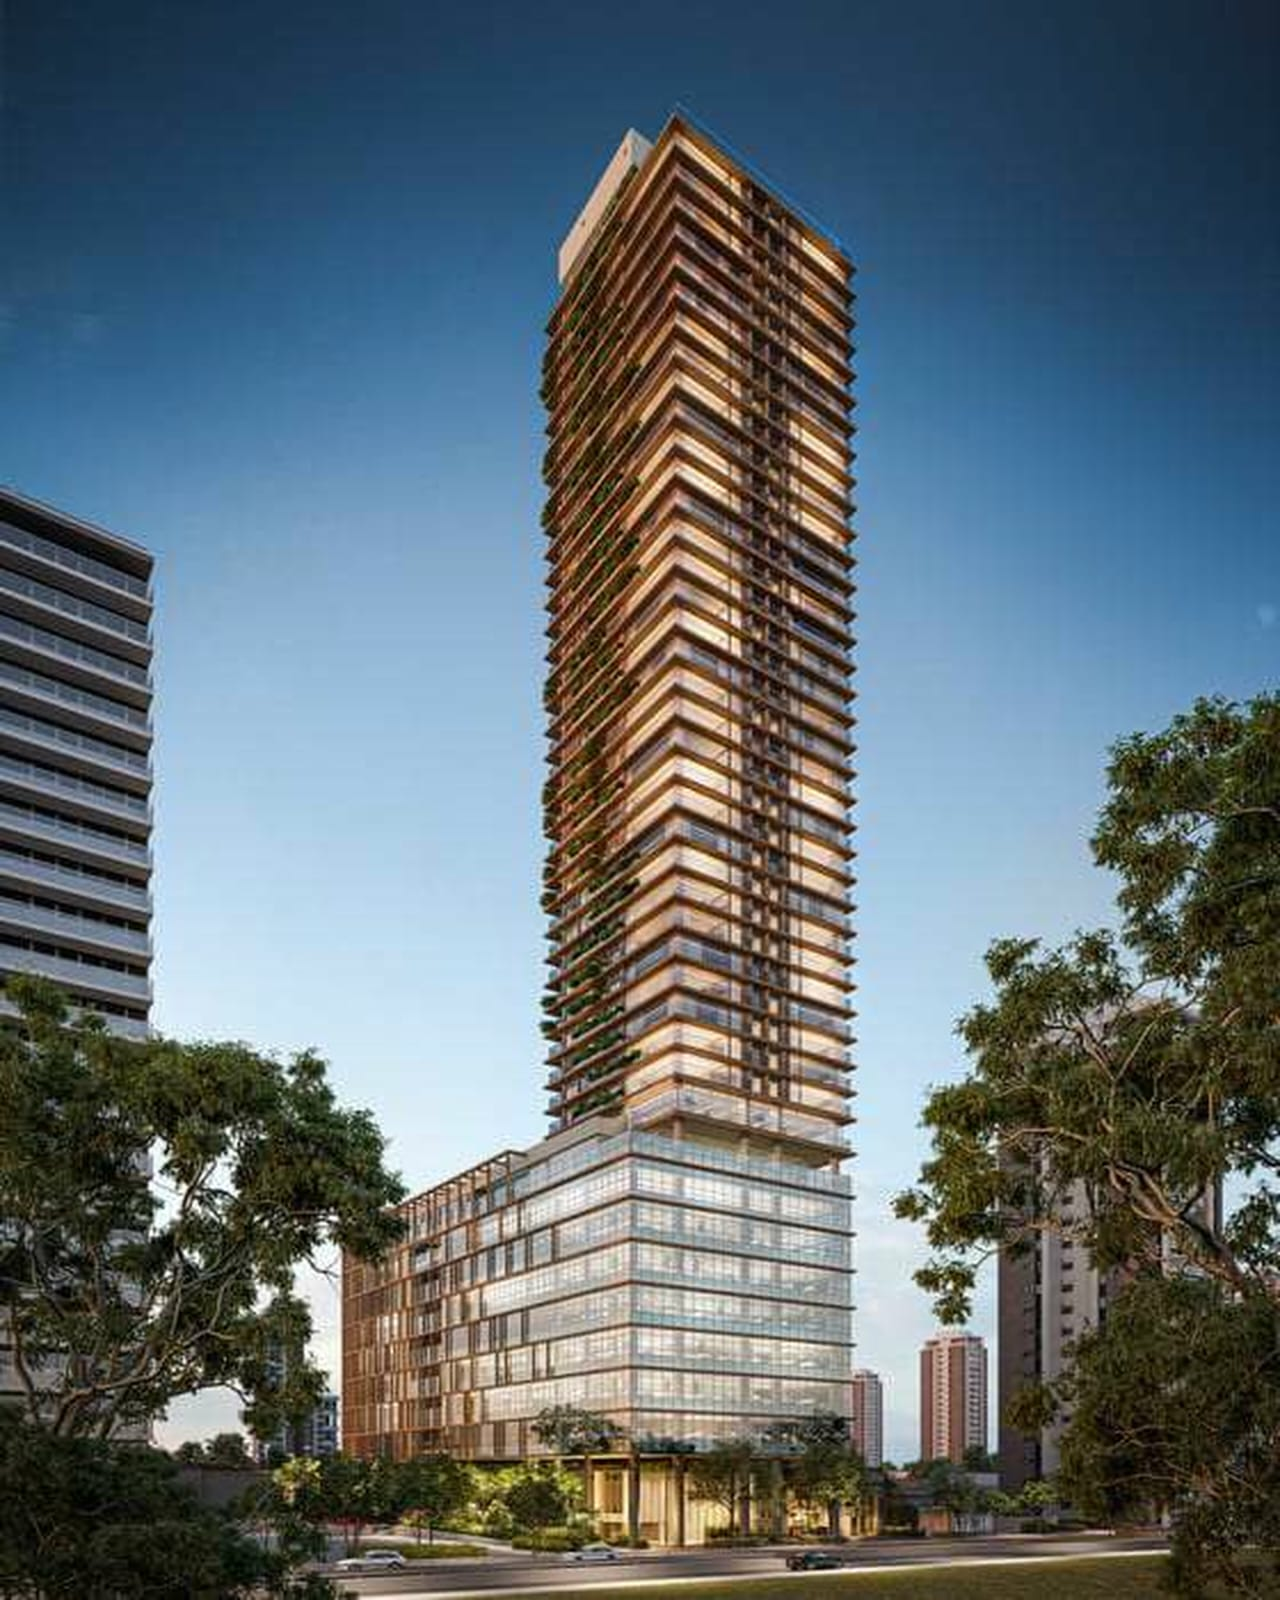
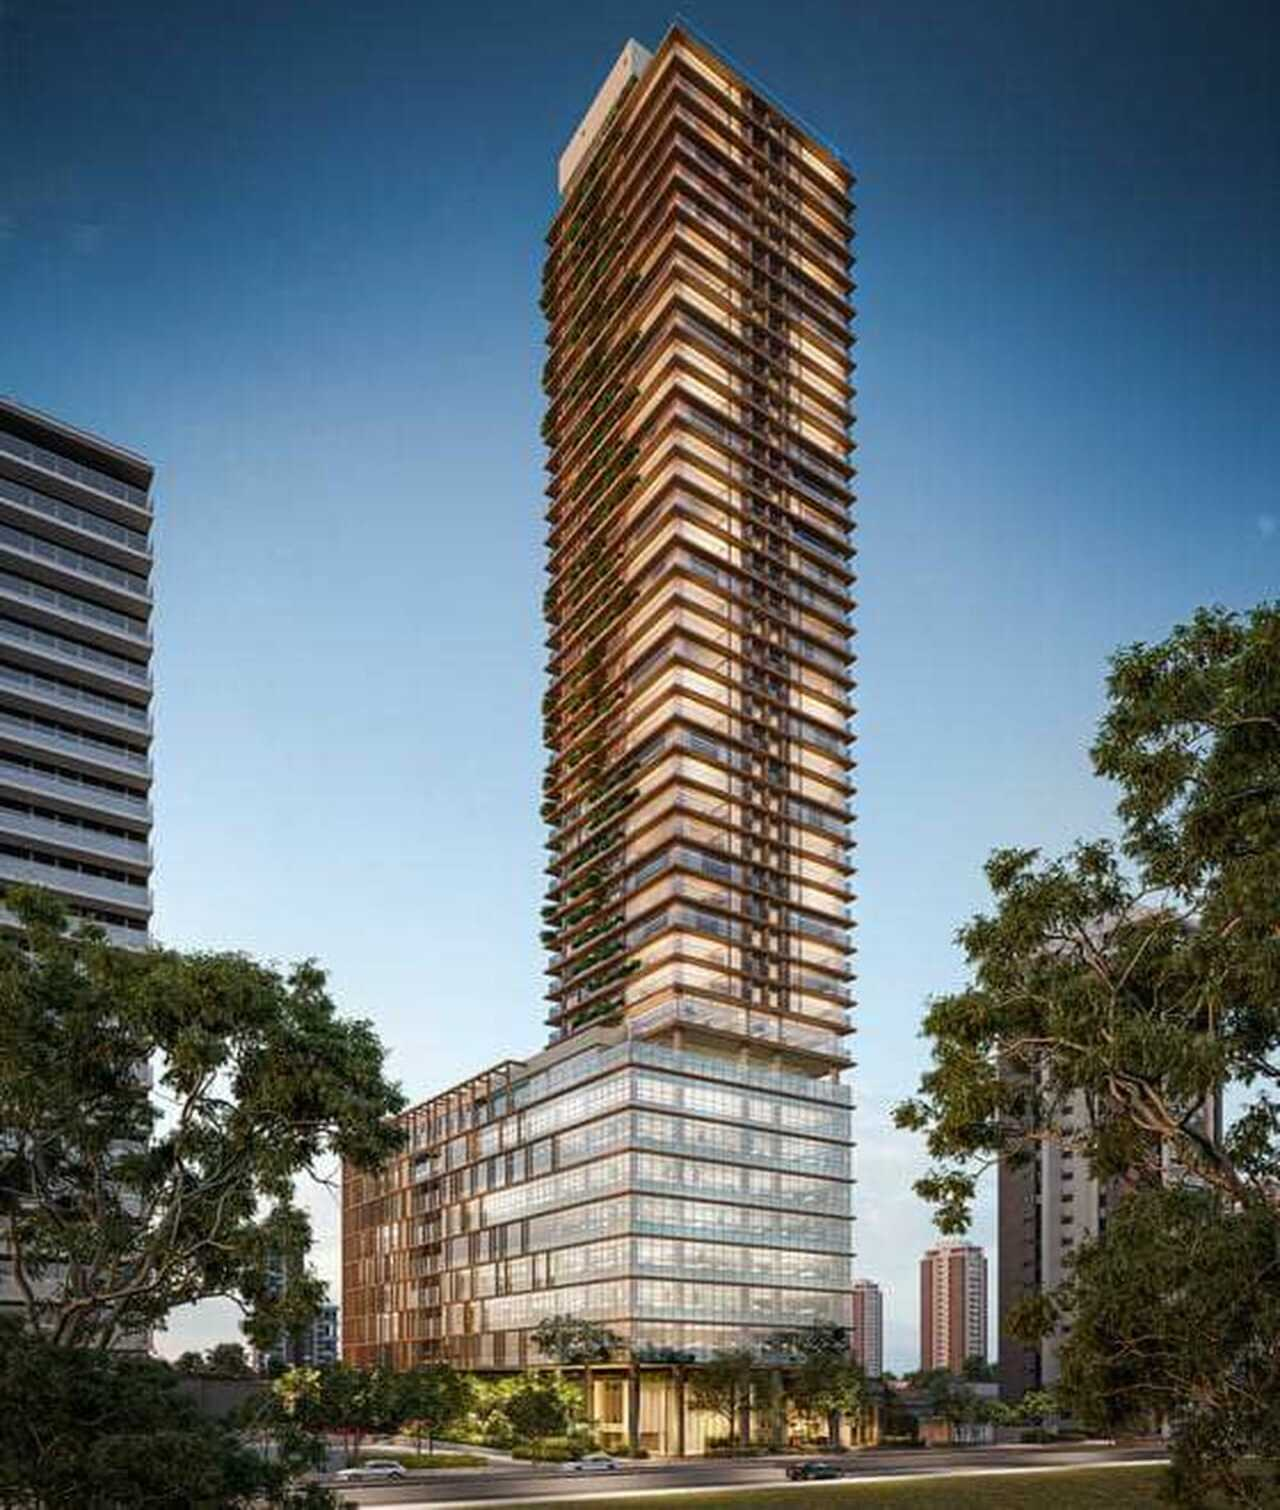
página mcmv

diff --git a/frontend/templates/imoveis/pagina_mcmv.html b/frontend/templates/imoveis/pagina_mcmv.html
@@ -1,0 +1,141 @@
+{% extends "base.html" %}
+{% load static humanize %}
+
+{% block title %}Minha Casa Minha Vida | Imobidom{% endblock %}
+
+{% block content %}
+<section class="py-5 bg-dark text-white" style="background: linear-gradient(rgba(0,0,0,0.6), rgba(0,0,0,0.6)), url('{% static 'images/bg-mcmv.jpg' %}') center/cover;">
+    <div class="container text-center py-4">
+        <h1 class="display-4 fw-bold">Seu Sonho da Casa Própria Começa Aqui</h1>
+        <p class="lead mb-4">Descubra em qual categoria sua renda se encaixa e veja as oportunidades exclusivas.</p>
+        
+        <div class="row justify-content-center g-2 mt-4">
+            <div class="col-auto">
+                <a href="?categoria=HIS1#imoveis-mcmv" class="btn {% if categoria_ativa == 'HIS1' %}btn-success{% else %}btn-outline-light{% endif %} rounded-pill px-4">Até R$ 4,8k (HIS 1)</a>
+            </div>
+            <div class="col-auto">
+                <a href="?categoria=HIS2#imoveis-mcmv" class="btn {% if categoria_ativa == 'HIS2' %}btn-success{% else %}btn-outline-light{% endif %} rounded-pill px-4">Até R$ 9,7k (HIS 2)</a>
+            </div>
+            <div class="col-auto">
+                <a href="?categoria=HMP#imoveis-mcmv" class="btn {% if categoria_ativa == 'HMP' %}btn-success{% else %}btn-outline-light{% endif %} rounded-pill px-4">Até R$ 16,2k (HMP)</a>
+            </div>
+            <div class="col-auto">
+                <a href="?" class="btn btn-primary rounded-pill px-4">Ver Todos</a>
+            </div>
+        </div>
+    </div>
+</section>
+
+<section class="py-5 bg-light">
+    <div class="container">
+        <div class="row g-4 mb-5">
+            <div class="col-md-4">
+                <div class="card h-100 border-0 shadow-sm">
+                    <div class="card-body text-center p-4">
+                        <div class="text-primary mb-3"><i class="fas fa-wallet fa-3x"></i></div>
+                        <h5 class="fw-bold">1. Qual sua renda?</h5>
+                        <p class="small text-muted">O governo subsidia parte do valor para famílias com renda até R$ 9.726,00. É o empurrão que faltava!</p>
+                        <hr>
+                        <div class="text-start small">
+                            <div class="d-flex justify-content-between mb-1"><span>HIS 1:</span> <strong>Até R$ 4.863</strong></div>
+                            <div class="d-flex justify-content-between"><span>HIS 2:</span> <strong>Até R$ 9.726</strong></div>
+                        </div>
+                    </div>
+                </div>
+            </div>
+
+            <div class="col-md-4">
+                <div class="card h-100 border-0 shadow-sm border-bottom border-primary border-4">
+                    <div class="card-body text-center p-4">
+                        <div class="text-warning mb-3"><i class="fas fa-home fa-3x"></i></div>
+                        <h5 class="fw-bold">2. O que você pode comprar?</h5>
+                        <p class="small text-muted">Existem tetos de preço para garantir que o imóvel seja realmente acessível e com juros baixos.</p>
+                        <hr>
+                        <div class="text-start small">
+                            <div class="d-flex justify-content-between mb-1"><span>MCMV:</span> <strong>Até R$ 350 mil</strong></div>
+                            <div class="d-flex justify-content-between"><span>HMP:</span> <strong>Até R$ 537 mil</strong></div>
+                        </div>
+                    </div>
+                </div>
+            </div>
+
+            <div class="col-md-4">
+                <div class="card h-100 border-0 shadow-sm">
+                    <div class="card-body text-center p-4">
+                        <div class="text-success mb-3"><i class="fas fa-shield-alt fa-3x"></i></div>
+                        <h5 class="fw-bold">3. Sua Segurança</h5>
+                        <p class="small text-muted">Esses imóveis são para moradia própria. Isso garante um condomínio mais tranquilo e familiar para sua família.</p>
+                        <div class="badge bg-light text-dark border p-2 mt-2 w-100">Juros reduzidos e uso do FGTS</div>
+                    </div>
+                </div>
+            </div>
+        </div>
+
+        <div id="imoveis-mcmv" class="pt-4">
+            <div class="d-flex justify-content-between align-items-end mb-4">
+                <div>
+                    <h2 class="fw-bold">Oportunidades Selecionadas</h2>
+                    <p class="text-muted">Mostrando {{ imoveis.count }} imóveis para o seu perfil.</p>
+                </div>
+                {% if categoria_ativa %}
+                    <a href="?" class="btn btn-sm btn-outline-secondary mb-3">Limpar Filtro</a>
+                {% endif %}
+            </div>
+
+            <div class="row g-4">
+                {% for imovel in imoveis %}
+                <div class="col-12 col-md-6 col-lg-4">
+                    <article class="card h-100 shadow-sm border-0 position-relative overflow-hidden">
+                        <div class="position-absolute top-0 end-0 m-3 z-2">
+                            <span class="badge bg-success px-3 py-2 shadow">Enquadrado {{ imovel.categoria_enquadramento }}</span>
+                        </div>
+
+                        <div class="ratio ratio-16x9">
+                            {% with imovel.imagens.all|first as img %}
+                                <img src="{{ img.imagem.url }}" class="object-fit-cover" alt="{{ imovel.titulo }}">
+                            {% endwith %}
+                        </div>
+
+                        <div class="card-body">
+                            <p class="text-primary fw-bold small mb-1">{{ imovel.bairro }}</p>
+                            <h5 class="card-title fw-bold">{{ imovel.titulo }}</h5>
+                            
+                            <div class="my-3">
+                                <span class="text-muted small d-block">A partir de:</span>
+                                <span class="h4 fw-bold text-primary">R$ {{ imovel.preco|intcomma }}</span>
+                                <br>
+                                <span class="badge bg-light text-success border border-success mt-1">
+                                    <i class="fas fa-check-circle me-1"></i> Entrada facilitada
+                                </span>
+                            </div>
+
+                            <div class="d-flex gap-3 text-muted small mb-3">
+                                <span><i class="fas fa-bed me-1"></i> {{ imovel.min_quartos }} dorms</span>
+                                <span><i class="fas fa-ruler-combined me-1"></i> {{ imovel.min_area }}m²</span>
+                            </div>
+
+                            <a href="{% url 'imovel_detalhe' imovel.slug %}" class="btn btn-outline-dark w-100 rounded-pill">Ver Detalhes</a>
+                        </div>
+                    </article>
+                </div>
+                {% empty %}
+                <div class="col-12 text-center py-5">
+                    <p class="lead">Nenhum imóvel encontrado nesta categoria.</p>
+                    <a href="?" class="btn btn-primary">Ver todas as opções</a>
+                </div>
+                {% endfor %}
+            </div>
+        </div>
+    </div>
+</section>
+
+<section class="py-5 bg-primary text-white text-center">
+    <div class="container">
+        <h2 class="fw-bold">Ficou com dúvida sobre seu enquadramento?</h2>
+        <p>Eu sou especialista em crédito imobiliário e posso fazer sua simulação agora mesmo.</p>
+        <a href="https://wa.me/{{ WHATSAPP_NUMERO }}?text=Quero saber meu enquadramento no MCMV" class="btn btn-light btn-lg rounded-pill px-5 shadow mt-3">
+            <i class="fab fa-whatsapp me-2 text-success"></i>Falar com Especialista
+        </a>
+    </div>
+</section>
+{% endblock %}

diff --git a/frontend/templates/shared/_navBarAdmin.html b/frontend/templates/shared/_navBarAdmin.html
@@ -10,11 +10,16 @@
         <div class="collapse navbar-collapse" id="navbarNavAdmin">
             <ul class="navbar-nav me-auto">
                 <li class="nav-item">
-                    <a class="nav-link {% if request.resolver_match.url_name == 'custom_admin_index' %}active{% endif %}" href="{% url 'custom_admin_index' %}">Visão Geral</a>
+                    <a class="nav-link {% if request.resolver_match.url_name == 'custom_admin_index' %}active{% endif %}" href="{% url 'custom_admin_index' %}" style="color: white;">Visão Geral</a>
                 </li>
                 <li class="nav-item">
                     <a class="nav-link text-primary {% if 'imoveis' in request.path and not 'orulo' in request.path %}active fw-bold{% endif %}" href="{% url 'custom_admin_imoveis_list' %}">
                         <i class="fas fa-home me-1"></i>Imóveis
+                    </a>
+                </li>
+                <li class="nav-item">
+                    <a class="nav-link text-warning {% if 'orulo' in request.path %}active fw-bold{% endif %}" href="{% url 'custom_admin_orulo_list' %}">
+                        <i class="fas fa-users me-1"></i>Órulo
                     </a>
                 </li>
                 <li class="nav-item">
@@ -35,7 +40,7 @@
                         <div class="rounded-circle bg-secondary d-flex align-items-center justify-content-center text-white me-2" style="width: 32px; height: 32px;">
                             {{ user.first_name|first|default:user.username|first|upper }}
                         </div>
-                        <span>{{ user.get_full_name|default:user.username }}</span>
+                        <span style="color: white;">{{ user.get_full_name|default:user.username }}</span>
                     </a>
                     <ul class="dropdown-menu dropdown-menu-end shadow" aria-labelledby="adminUserDropdown">
                         <li><span class="dropdown-header">Logado como {{ user.username }}</span></li>

diff --git a/frontend/templates/base.html b/frontend/templates/base.html
@@ -59,7 +59,7 @@
                             <li><a href="{% url 'home' %}">Imóveis</a></li>
                             <li><a href="{% url 'sobre_nos' %}">Sobre Nós</a></li>
                             <li><a href="{% url 'fale_conosco' %}">Fale Conosco</a></li>
-                            <li><a href="{% url 'duvidas_frequentes' %}">Dúvidas Frequentes</a></li>
+                            {% comment %} <li><a href="{% url 'duvidas_frequentes' %}">Dúvidas Frequentes</a></li> {% endcomment %}
                             {% comment %} <li><a href="{% url 'simulacao_financiamento' %}">Simulação de Financiamento</a></li> {% endcomment %}
                         </ul>
                     </div>

diff --git a/frontend/templates/shared/_navBar.html b/frontend/templates/shared/_navBar.html
@@ -31,7 +31,7 @@
                 </li>
 
                 <li class="nav-item">
-                    <a class="nav-link text-nowrap" href="{% url 'home' %}?tipo=MCMV#empreendimentos" title="Principais opções dentro do programa, com orientação completa.">
+                    <a class="nav-link text-nowrap" href="{% url 'pagina_mcmv' %}" title="Regras completas MCMV, HIS e HMP com opções de imóveis.">
                         Minha Casa Minha Vida
                     </a>
                 </li>

diff --git a/backend/imoveis/views.py b/backend/imoveis/views.py
@@ -198,6 +198,17 @@ def simulacao_mcmv(request):
 
     return render(request, 'simuladores/mcmv.html')
 
+def pagina_mcmv(request):
+    # Imóveis do tipo Minha Casa Minha Vida
+    imoveis = Imovel.objects.filter(ativo=True, tipo='MCMV').prefetch_related('imagens', 'unidades').annotate(
+        min_quartos=Min('unidades__quartos'),
+        max_quartos=Max('unidades__quartos'), 
+        min_area=Min('unidades__area_m2'),
+        max_area=Max('unidades__area_m2')     
+    ).order_by('-criado_em')
+
+    return render(request, 'imoveis/pagina_mcmv.html', {'imoveis': imoveis})
+
 def fale_conosco(request):
     if request.method == 'POST':
         nome = request.POST.get('nome')
@@ -309,6 +320,7 @@ def custom_admin_imoveis_list(request):
     }
 
     return render(request, 'custom_admin/imoveis_list.html', context)
+
 @staff_member_required
 def custom_admin_delete_imovel(request, imovel_id):
     """Exclui um imóvel específico"""
@@ -342,6 +354,7 @@ def custom_admin_sync_orulo_imovel(request, imovel_id):
         messages.error(request, resultado['message'])
         
     return redirect('custom_admin_orulo_list')
+
 @staff_member_required
 def custom_admin_imovel_imagens(request, imovel_id):
     imovel = get_object_or_404(Imovel, pk=imovel_id)

diff --git a/backend/imoveis/urls.py b/backend/imoveis/urls.py
@@ -11,6 +11,7 @@ from .views import (
     duvidas_frequentes,
     simulacao_financiamento,
     simulacao_mcmv,
+    pagina_mcmv,
     fale_conosco,
     ImovelListAPIView,
     ImovelDetailAPIView,
@@ -48,9 +49,10 @@ urlpatterns = [
     path('termos-de-uso/', termos_de_uso, name='termos_de_uso'),
     path('politica-de-privacidade/', politica_de_privacidade, name='politica_de_privacidade'),
     # path('blog/', blog, name='blog'), # Removido, agora no app blog
-    path('duvidas-frequentes/', duvidas_frequentes, name='duvidas_frequentes'),
+    # path('duvidas-frequentes/', duvidas_frequentes, name='duvidas_frequentes'),
     path('simulacao/financiamento/', simulacao_financiamento, name='simulacao_financiamento'),
     path('simulacao/minha-casa-minha-vida/', simulacao_mcmv, name='simulacao_mcmv'),
+    path('minha-casa-minha-vida/', pagina_mcmv, name='pagina_mcmv'),
     path('fale-conosco/', fale_conosco, name='fale_conosco'),
 
     # ======================
